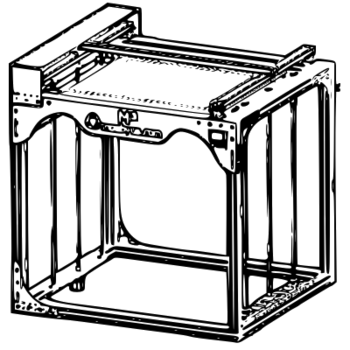
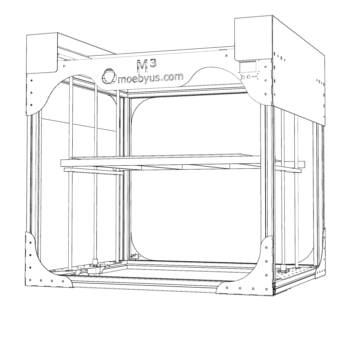
Cambiadas imagenes de algunas máquinas

diff --git a/Cura/gui/moebyusGui.py b/Cura/gui/moebyusGui.py
@@ -150,7 +150,7 @@ class MoebyusSelectModelPage(MoebyusInfoPage):
 			("Prusa i3 MM Large\t\t(200x300x200)"		, "PrusaI3MM-L"		, "prusai3mml.png" ),
 			("Steel MM\t\t\t\t\t(200x200x200)"			, "SteelMM"			, "steelmm.png" ),
 			("Steel MM Large\t\t\t(300x200x200)"		, "SteelMM-L"  		, "steelmml.png" ),
-			("Steel MM Marco Sirius\t(300x200x200)"		, "SteelMM-Sirius"	, "steelmml.png" ),
+			("Steel MM Marco Sirius\t(300x200x200)"		, "SteelMM-Sirius"	, "steelsirius.png" ),
 			("Melta Kossel\t\t\t\t(160x300)"			, "Melta"			, "melta.png" ),
 			("Melta XL\t\t\t\t\t(400x600)"				, "MeltaXL"			, "meltaxl.png" ),
 			("[SIRIUS] 1.0\t\t\t\t(300x200x200)"		, "Sirius1"			, "sirius1.png" ),
